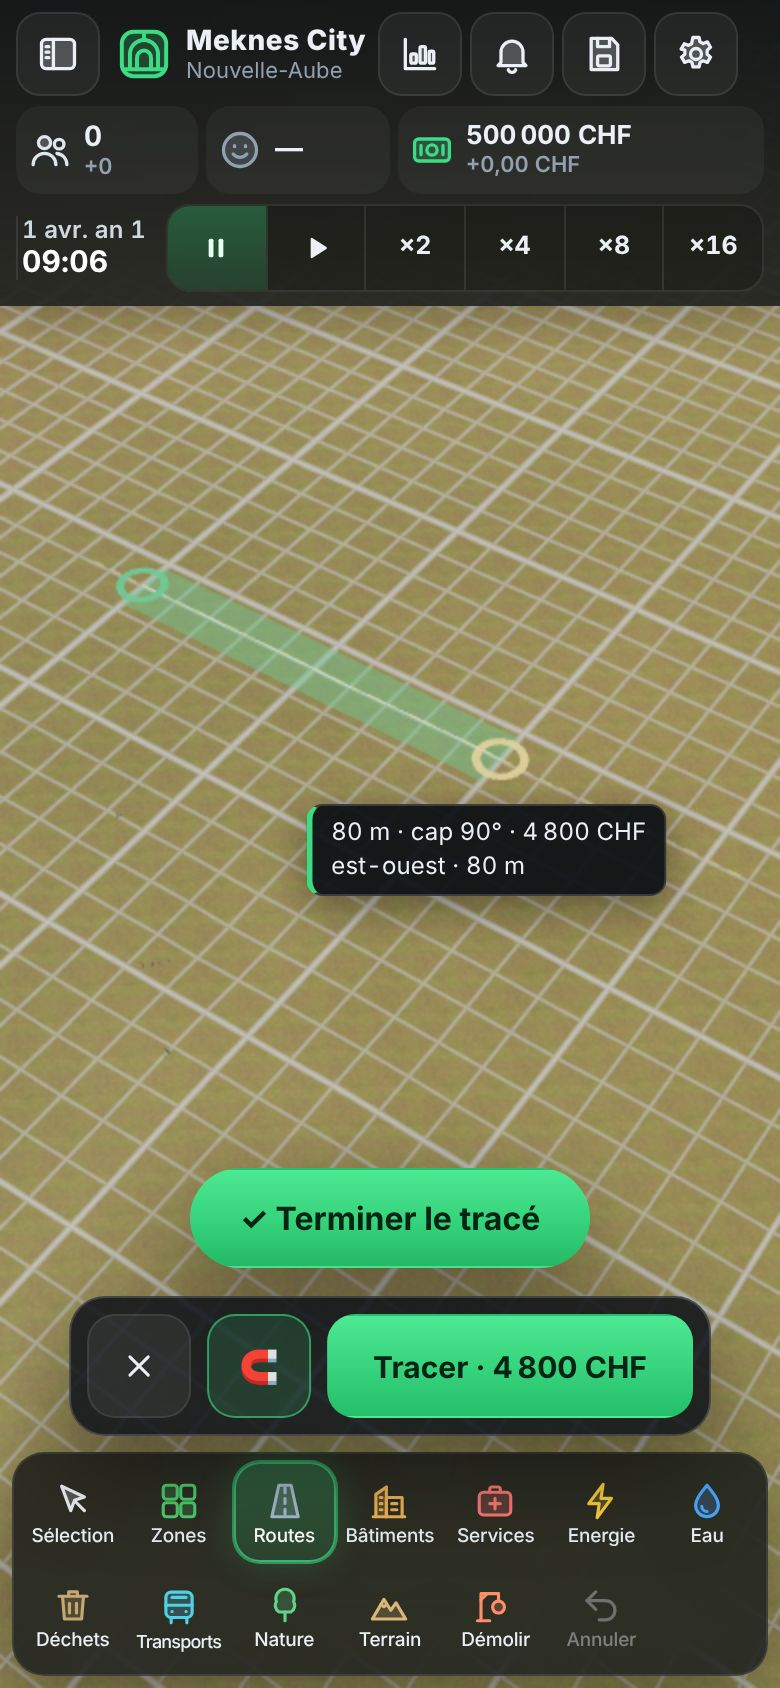
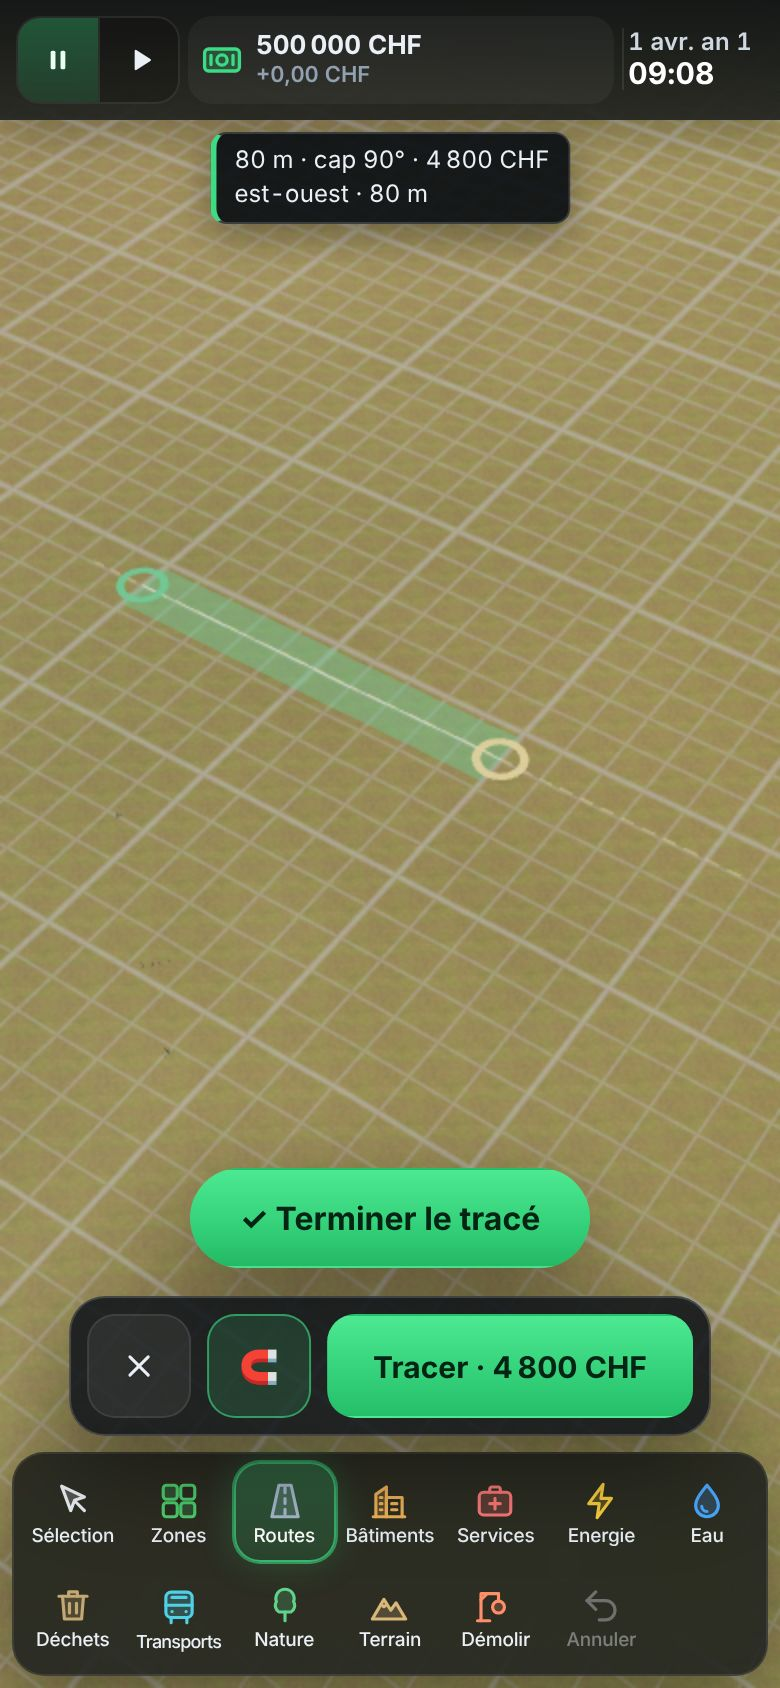
iPhone : construction plus simple (barre du haut réduite, étiquette fixe, fantôme visible, zoom auto)
- Outil actif sur téléphone : barre du haut sur une ligne (pause/lecture, argent,
  date) ; la carte gagne ~100 px.
- Étiquette de l'outil fixée sous la barre (ne couvre plus le bâtiment sous le doigt).
- Fantôme : volume coloré à la taille du bâtiment pendant le chargement, modèle
  LOD1 sur téléphone (plus léger), même avancée vers la rue que le rendu final.
- Caméra rapprochée en choisissant un bâtiment si elle est très loin.
- Quadrillage plus discret sur téléphone.
Tests 482/482 ; e2e, e2e:mobile, e2e:routes verts.

Claude-Session: https://claude.ai/code/session_01KGPYpRcs7aMQMS1nZafg6K

diff --git a/city-builder/src/input/previews.ts b/city-builder/src/input/previews.ts
@@ -12,6 +12,8 @@
  * Propriétaire : agent construction/caméra/UI.
  */
 import * as THREE from 'three';
+import { imageLimits } from '../render/image-cap';
+import { frontOffset } from '../render/buildings/front-yards';
 import type { CatalogAsset } from '../shared/catalog';
 import { TILE_SIZE } from '../shared/constants';
 import { rotateQuarter } from '../shared/math';
@@ -76,6 +78,8 @@ function overlayMaterial(opacity: number): THREE.MeshBasicMaterial {
 
 interface GhostModel { root: THREE.Group; materials: THREE.MeshStandardMaterial[]; baseColors: THREE.Color[]; matNames: string[] }
 
+const _ghostOff = new THREE.Vector3();
+
 export class GhostPreview {
   readonly group = new THREE.Group();
   private models = new Map<string, Promise<GhostModel | null>>();
@@ -84,6 +88,8 @@ export class GhostPreview {
   private plate = new THREE.Mesh(new THREE.BufferGeometry(), overlayMaterial(0.28));
   private border = new THREE.Mesh(new THREE.BufferGeometry(), overlayMaterial(0.9));
   private arrow = new THREE.Mesh(new THREE.BufferGeometry(), overlayMaterial(0.9));
+  /** Volume coloré à la taille du bâtiment, affiché tant que le modèle 3D n'est pas chargé (téléphone : lent). */
+  private box = new THREE.Mesh(new THREE.BoxGeometry(1, 1, 1).translate(0, 0.5, 0), new THREE.MeshBasicMaterial({ transparent: true, opacity: 0.45, depthWrite: false }));
   private t = 0;
   /** Vrai quand le modèle demandé est chargé et visible (diagnostic e2e). */
   modelVisible = false;
@@ -91,7 +97,8 @@ export class GhostPreview {
   constructor(scene: THREE.Scene, private models_: ModelSource, private heightAt: HeightFn) {
     this.group.name = 'ghost-preview';
     this.plate.renderOrder = 10; this.border.renderOrder = 11; this.arrow.renderOrder = 11;
-    this.group.add(this.plate, this.border, this.arrow);
+    this.box.renderOrder = 9;
+    this.group.add(this.plate, this.border, this.arrow, this.box);
     this.group.visible = false;
     scene.add(this.group);
   }
@@ -99,7 +106,8 @@ export class GhostPreview {
   private loadGhost(asset: CatalogAsset): Promise<GhostModel | null> {
     let p = this.models.get(asset.id);
     if (!p) {
-      p = this.models_.load(asset.id, 0).then((src) => {
+      // Téléphone (mode allégé) : modèle intermédiaire (LOD1) pour le fantôme, plus léger que le LOD0.
+      p = this.models_.load(asset.id, imageLimits.textureCap <= 256 && asset.lods.length > 1 ? 1 : 0).then((src) => {
         const root = src.clone(true);
         const materials: THREE.MeshStandardMaterial[] = [];
         const baseColors: THREE.Color[] = [];
@@ -143,7 +151,12 @@ export class GhostPreview {
     const depth = Math.abs(lx) > 0 ? o.hx : o.hz;
     const ax = x + fx * (depth + 1.5); const az = z + fz * (depth + 1.5);
     buildGroundRibbon(this.arrow.geometry, [ax - fx * 1.2, az - fz * 1.2, ax + fx * 1.6, az + fz * 1.6], 2.4, this.heightAt, 0.2, 1);
-    for (const m of [this.plate, this.border, this.arrow]) (m.material as THREE.MeshBasicMaterial).color.copy(tint);
+    for (const m of [this.plate, this.border, this.arrow, this.box]) (m.material as THREE.MeshBasicMaterial).color.copy(tint);
+    // Volume provisoire (empreinte × hauteur du bâtiment) tant que le modèle n'est pas là.
+    this.box.visible = !this.current;
+    this.box.position.set(x, y, z);
+    this.box.rotation.set(0, rotAngle(rot), 0);
+    this.box.scale.set(Math.max(2, asset.dimensions.width * 0.9), Math.max(2, asset.dimensions.height), Math.max(2, asset.dimensions.depth * 0.9));
 
     if (this.currentId !== asset.id) {
       if (this.current) this.group.remove(this.current.root);
@@ -154,6 +167,7 @@ export class GhostPreview {
         this.current = g;
         this.group.add(g.root);
         this.modelVisible = true;
+        this.box.visible = false;
         this.applyModel(asset, this.lastX, this.lastZ, this.lastRot, this.lastVariant, this.lastValidity);
       });
     }
@@ -168,7 +182,9 @@ export class GhostPreview {
     if (!g) return;
     const v = variant >= 0 ? asset.variants[variant] : undefined;
     // Altitude : même règle que la simulation (moyenne des coins de l'empreinte).
-    g.root.position.set(x, this.lastY, z);
+    // Même avancée vers la rue que le rendu des bâtiments (jardinets, src/render/buildings/front-yards.ts).
+    frontOffset(asset, rot, _ghostOff);
+    g.root.position.set(x + _ghostOff.x, this.lastY, z + _ghostOff.z);
     g.root.rotation.set(0, rotAngle(rot), 0);
     g.root.scale.set(1, v?.heightScale ?? 1, 1);
     const tint = colorOf(validity);

diff --git a/city-builder/src/ui/styles.css b/city-builder/src/ui/styles.css
@@ -631,3 +631,19 @@ canvas.chart { width: 100%; height: 160px; display: block; touch-action: none; }
 #dash-tabs.many { display: flex; overflow-x: auto; scrollbar-width: none; -webkit-overflow-scrolling: touch; }
 #dash-tabs.many::-webkit-scrollbar { display: none; }
 #dash-tabs.many button { flex: 0 0 auto; white-space: nowrap; padding: 4px 12px; }
+
+/* Téléphone, outil de construction actif : barre du haut réduite à une ligne (argent, date, pause/lecture) pour
+   agrandir la carte ; étiquette de l'outil fixée sous la barre (au lieu de couvrir le bâtiment sous le doigt). */
+@media (max-width: 760px) {
+  body.tool-opts #hud .hud-brand, body.tool-opts #hud .hud-actions, body.tool-opts #btn-sidebar,
+  body.tool-opts #hud-pop-btn, body.tool-opts #hud-happy-btn, body.tool-opts #hud-weather,
+  body.tool-opts #hud .speed .spd-x { display: none !important; }
+  body.tool-opts #hud { row-gap: 0 !important; padding-top: calc(4px + env(safe-area-inset-top, 0px)) !important; padding-bottom: 4px !important; }
+  #cursor-tag.pinned { transform: translateX(-50%); max-width: calc(100vw - 24px); }
+}
+@media (max-width: 760px) {
+  /* Mode construction : pause / lecture compacts sur la même ligne que l'argent et la date. */
+  body.tool-opts #hud { flex-wrap: nowrap !important; }
+  body.tool-opts #hud .speed { flex: 0 0 auto !important; width: auto !important; order: 3; }
+  body.tool-opts #hud .speed button { min-width: 40px; }
+}

diff --git a/city-builder/src/render/terrain/renderer.ts b/city-builder/src/render/terrain/renderer.ts
@@ -102,7 +102,7 @@ export class TerrainSystem implements IRenderTerrain {
       if (this.disposed) { tex.dispose(); return; }
       this.textures = tex;
       this.matHandle = createTerrainMaterial(tex, this.data?.waterLevel ?? 2);
-      this.matHandle.uniforms.uGrid.value = this.gridOn ? 1 : 0;
+      this.matHandle.uniforms.uGrid.value = this.gridOn ? this.gridStrength : 0;
       for (const c of this.chunks) if (c.mesh) c.mesh.material = this.matHandle.material;
       this.group.visible = true;
     });
@@ -111,7 +111,9 @@ export class TerrainSystem implements IRenderTerrain {
   get material(): THREE.MeshStandardMaterial | null { return this.matHandle?.material ?? null; }
 
   /** Affiche la grille de construction au sol (cases de TILE_SIZE). */
-  setGrid(on: boolean): void { this.gridOn = on; if (this.matHandle) this.matHandle.uniforms.uGrid.value = on ? 1 : 0; }
+  /** Intensité du quadrillage (téléphone : plus discret, le petit écran le rendait envahissant). */
+  gridStrength = 1;
+  setGrid(on: boolean): void { this.gridOn = on; if (this.matHandle) this.matHandle.uniforms.uGrid.value = on ? this.gridStrength : 0; }
   private gridOn = false;
   get terrainTextures(): TerrainTextures | null { return this.textures; }
   get terrain(): (TerrainData & Partial<WorldTerrain>) | null { return this.data; }

diff --git a/city-builder/src/ui/hud.ts b/city-builder/src/ui/hud.ts
@@ -455,7 +455,16 @@ export function initUI(h: UIHandlers): UIHandle {
           // Étiquette toujours entière à l'écran (centrée sous le doigt en tactile, à droite du curseur sinon).
           const w = cursorTag.offsetWidth, W = window.innerWidth;
           const centered = matchMedia('(max-width: 760px)').matches; // même règle que styles.css (étiquette centrée)
-          const x = centered ? Math.min(Math.max(sx, w / 2 + 6), W - w / 2 - 6) : Math.min(sx, W - w - 22);
+          if (centered) {
+            // Téléphone : étiquette fixée en haut, sous la barre (elle ne cache plus le bâtiment sous le doigt).
+            const hud = document.getElementById('hud');
+            const top = hud && !hud.classList.contains('hidden') ? hud.getBoundingClientRect().bottom + 6 : 8;
+            cursorTag.style.left = `${W / 2}px`;
+            cursorTag.style.top = `${Math.round(top)}px`;
+            cursorTag.classList.add('pinned');
+            return;
+          }
+          const x = Math.min(sx, W - w - 22);
           cursorTag.style.left = `${Math.max(0, x)}px`;
           cursorTag.style.top = `${sy}px`;
         },

diff --git a/city-builder/src/main.ts b/city-builder/src/main.ts
@@ -380,6 +380,11 @@ async function boot(): Promise<void> {
     const id = t === 'building' ? cons.machine.asset?.id ?? '' : '';
     const wantPower = t === 'powerline' || id.startsWith('elec_');
     const wantWater = id.startsWith('eau_');
+    // Téléphone : caméra rapprochée en choisissant un bâtiment si elle est très loin (maison minuscule à l'écran).
+    if (t === 'building' && render.profile.lite) {
+      const pose = input.camera.getPose();
+      if (pose.distance > 230) input.camera.flyTo({ distance: 170 });
+    }
     if (wantPower && !powerView.overlay) { powerView.setOverlay(true); autoPower = true; }
     else if (!wantPower && autoPower) { powerView.setOverlay(false); autoPower = false; }
     if (wantWater && waterView.mode === 'off') { waterView.set('desserte'); autoWater = true; }

diff --git a/city-builder/src/render/index.ts b/city-builder/src/render/index.ts
@@ -98,6 +98,8 @@ export async function initRender(
   });
   // Textures du sol (3 tableaux de 5 couches) : 1024 px sur ordinateur, 512 en mode allégé, 256 en mode sûr.
   const terrain = new TerrainSystem(ctx.scene, { catalog, assetsBase, textureSize: profile.lite ? (isSafeMode() ? 256 : 512) : 1024 });
+  // Téléphone : quadrillage de construction plus discret (lignes blanches envahissantes sur petit écran).
+  if (profile.lite) terrain.gridStrength = 0.45;
   const water = new WaterSystem(ctx.scene);
   const quays = new QuayRenderer(ctx.scene);
   const heightAt = (x: number, z: number): number => terrain.heightAt(x, z);
